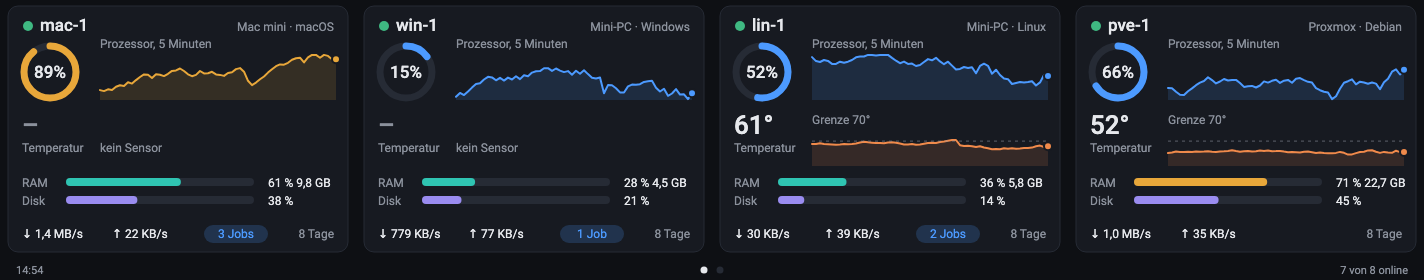
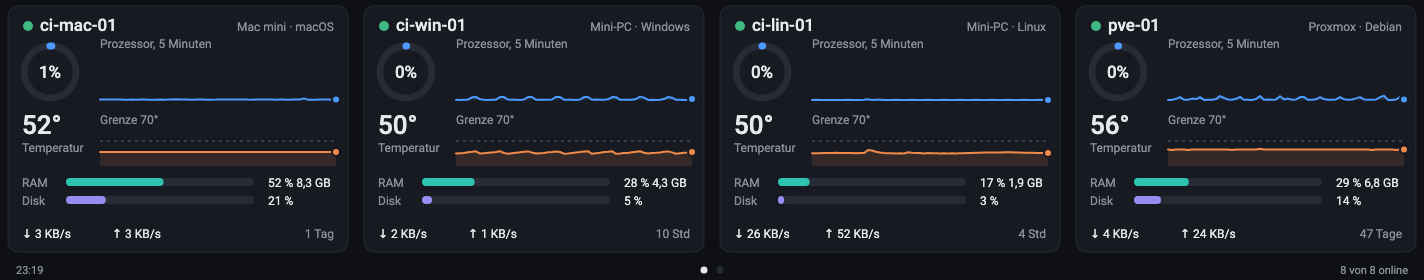
docs: use screenshots of the real display

diff --git a/README.md b/README.md
@@ -9,7 +9,7 @@
 
 ![Seite 1: vier Rechner mit Prozessor-Ring, Verlauf, Temperatur, Speicher und Datenträger](docs/images/seite-1.png)
 
-![Seite 2: Raspberry Pi, einer davon offline, einer mit Unterspannung](docs/images/seite-2.png)
+![Seite 2: vier Raspberry Pi mit Prozessor-Ring, Verlauf, Temperatur, Speicher und Datenträger](docs/images/seite-2.png)
 
 ## Ausprobieren
 
